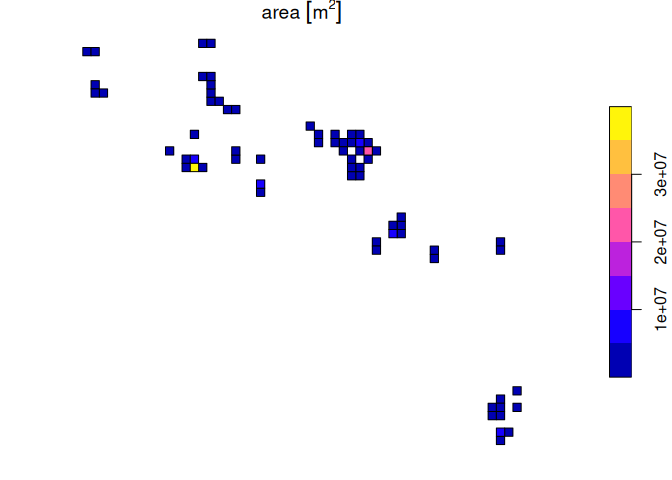
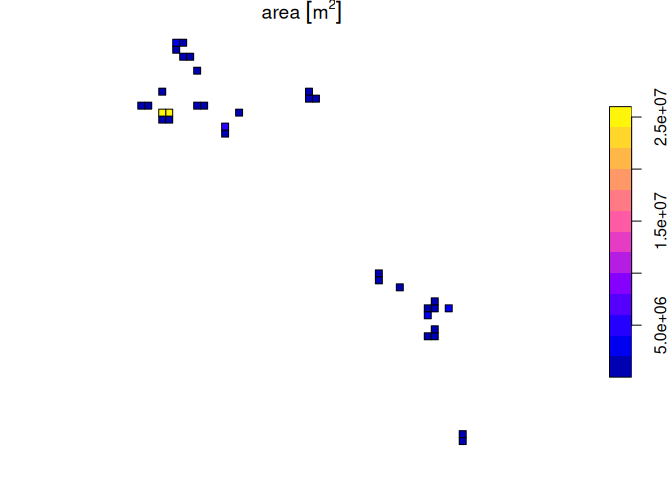
check that functions are well documented and a basic vignette is available for first pre-release

diff --git a/README.md b/README.md
@@ -61,6 +61,20 @@ The first step is to create a AOO grid over the extent of the ecosystem:
 
 ``` r
 library(RLErestricted)
+library(sf)
+#> Linking to GEOS 3.12.0, GDAL 3.8.4, PROJ 9.3.1; sf_use_s2() is TRUE
+library(dplyr)
+#> 
+#> Attaching package: 'dplyr'
+#> The following objects are masked from 'package:stats':
+#> 
+#>     filter, lag
+#> The following objects are masked from 'package:base':
+#> 
+#>     intersect, setdiff, setequal, union
+glaciers_on_volcanos <- tropical_glaciers |>
+    dplyr::filter(ecosystem_name %in% "Volcanos de Peru y Chile") |>
+    sf::st_transform(crs = 32719)
 
 AOO_grid <- create_AOO_grid(glaciers_on_volcanos)
 #> Warning: attribute variables are assumed to be spatially constant throughout
@@ -72,29 +86,29 @@ area of the ecosystem:
 
 ``` r
 AOO_grid
-#> AOO grid with a total of 69 cells and total extent of:
-#> 164472691 [m^2]
-#> There are 40 cells with small occurrences (<1 % of cell size)
-#> There are 16 cells with marginal occurrences (<1 % of total extent)
-#> Simple feature collection with 69 features and 4 fields
+#> AOO grid for Volcanos de Peru y Chile with a total of 34 cells and total extent of:
+#> 75.61276 [km^2]
+#> There are 23 cells with small occurrences (<1 % of cell size)
+#> There are 15 cells with marginal occurrences (<1 % of total extent)
+#> Simple feature collection with 34 features and 5 fields
 #> Geometry type: POLYGON
 #> Dimension:     XY
-#> Bounding box:  xmin: 619907 ymin: 7941362 xmax: 1149907 ymax: 8431362
-#> Projected CRS: WGS 84 / UTM zone 18S
-#> # A tibble: 69 × 5
-#>    layer    area                                       geoms prop_area cumm_area
-#>  * <int>   [m^2]                               <POLYGON [m]>       [%]       [%]
-#>  1   303    237. ((1119907 7941362, 1129907 7941362, 112990…  0.000237  0.000144
-#>  2  3167    817. ((619907 8411362, 629907 8411362, 629907 8…  0.000817  0.000641
-#>  3  3243   1019. ((759907 8421362, 769907 8421362, 769907 8…  0.00102   0.00126 
-#>  4  2517  18085. ((939907 8301362, 949907 8301362, 949907 8…  0.0181    0.0123  
-#>  5  2810  48106. ((769907 8351362, 779907 8351362, 779907 8…  0.0481    0.0415  
-#>  6  2750  55725. ((789907 8341362, 799907 8341362, 799907 8…  0.0557    0.0754  
-#>  7  2458  70936. ((969907 8291362, 979907 8291362, 979907 8…  0.0709    0.119   
-#>  8  2859  97391. ((639907 8361362, 649907 8361362, 649907 8…  0.0974    0.178   
-#>  9  2872 102244. ((769907 8361362, 779907 8361362, 779907 8…  0.102     0.240   
-#> 10  1791 108073. ((1119907 8181362, 1129907 8181362, 112990…  0.108     0.306   
-#> # ℹ 59 more rows
+#> Bounding box:  xmin: 69423.82 ymin: 7804685 xmax: 539423.8 ymax: 8384685
+#> Projected CRS: WGS 84 / UTM zone 19S
+#> # A tibble: 34 × 6
+#>    layer ecosystem_name       area                     geoms prop_area cumm_area
+#>  * <int> <chr>               [m^2]             <POLYGON [m]>       [%]       [%]
+#>  1  2917 Volcanos de Peru … 3.73e0 ((69423.82 8284685, 7942…   3.73e-6   4.93e-6
+#>  2   275 Volcanos de Peru … 4.51e1 ((529423.8 7804685, 5394…   4.51e-5   6.46e-5
+#>  3  2998 Volcanos de Peru … 9.89e3 ((319423.8 8294685, 3294…   9.89e-3   1.31e-2
+#>  4  3427 Volcanos de Peru … 1.08e4 ((129423.8 8374685, 1394…   1.08e-2   2.75e-2
+#>  5  3053 Volcanos de Peru … 1.12e4 ((309423.8 8304685, 3194…   1.12e-2   4.23e-2
+#>  6  2997 Volcanos de Peru … 1.35e4 ((309423.8 8294685, 3194…   1.35e-2   6.02e-2
+#>  7  1110 Volcanos de Peru … 1.65e4 ((479423.8 7954685, 4894…   1.65e-2   8.20e-2
+#>  8  2875 Volcanos de Peru … 2.52e4 ((209423.8 8274685, 2194…   2.52e-2   1.15e-1
+#>  9  2925 Volcanos de Peru … 2.70e4 ((149423.8 8284685, 1594…   2.70e-2   1.51e-1
+#> 10  3315 Volcanos de Peru … 2.75e4 ((129423.8 8354685, 1394…   2.75e-2   1.87e-1
+#> # ℹ 24 more rows
 ```
 
 And we can plot this grid:
